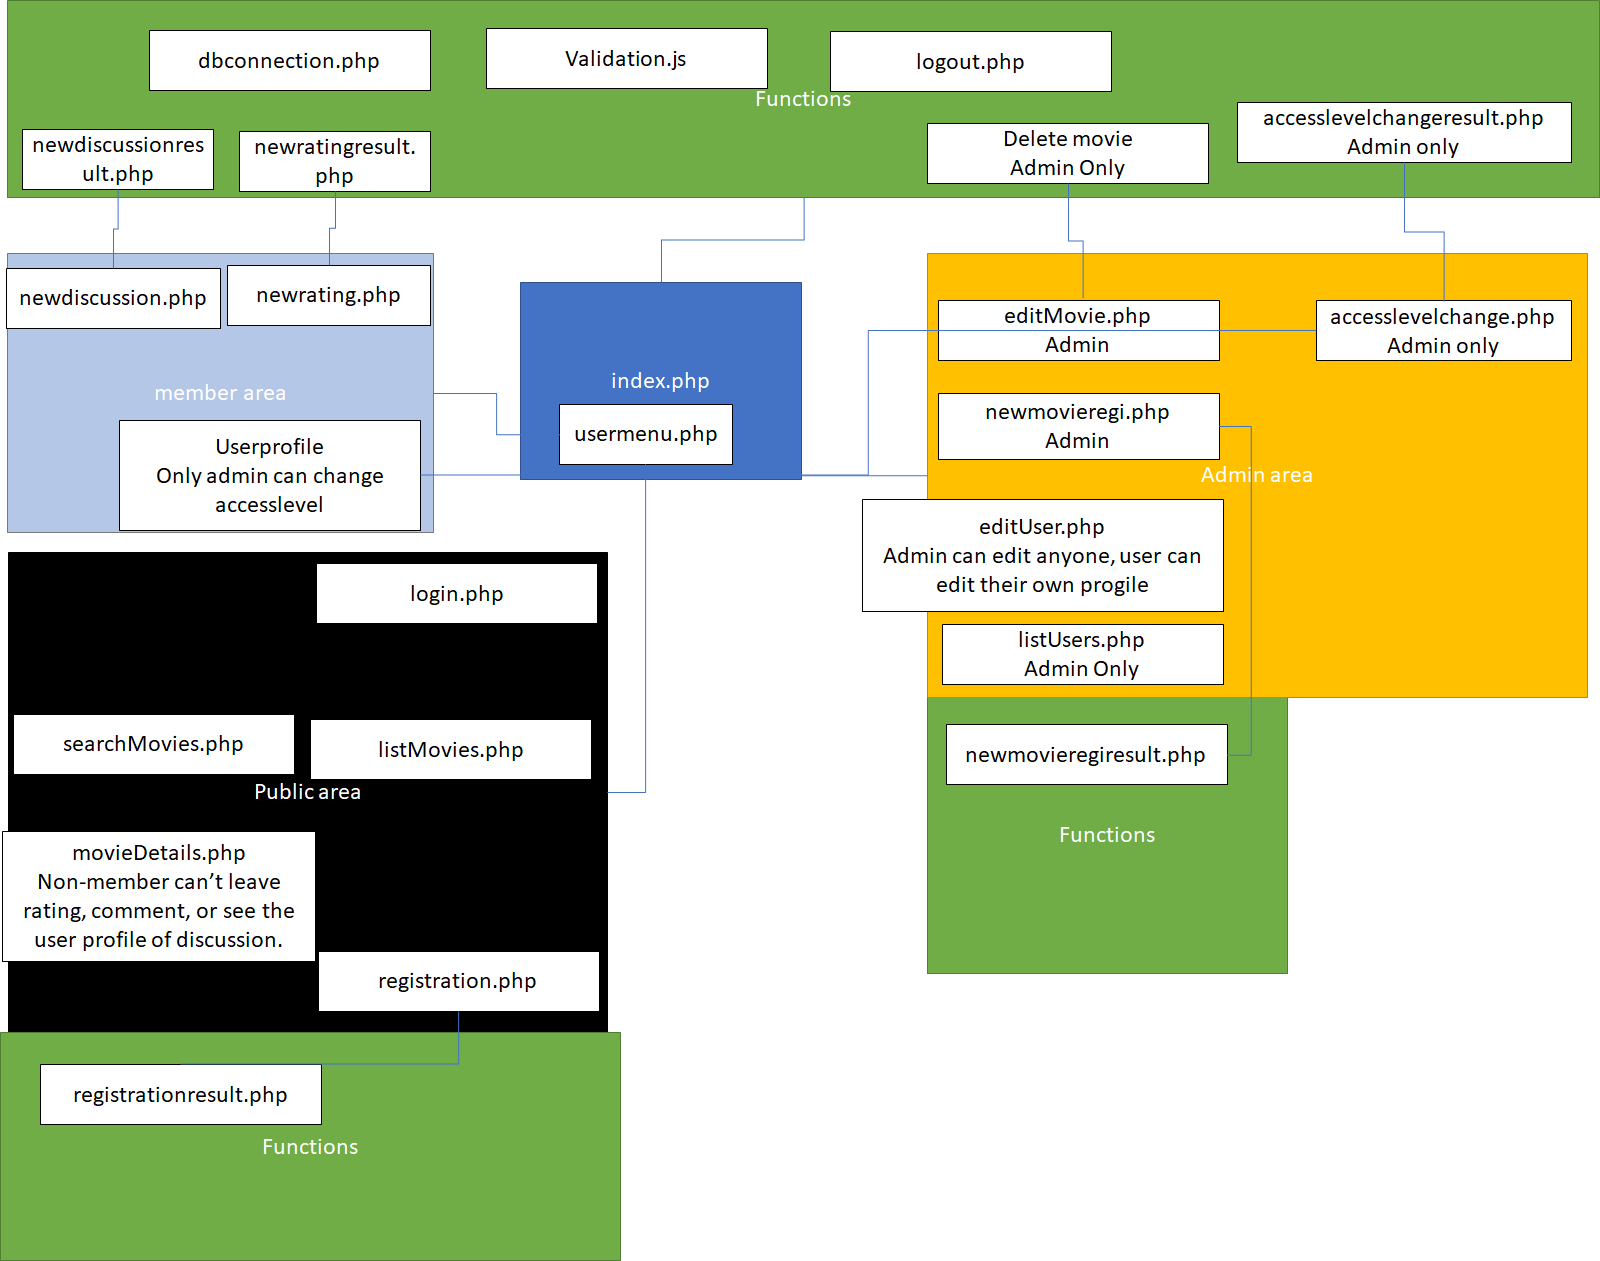
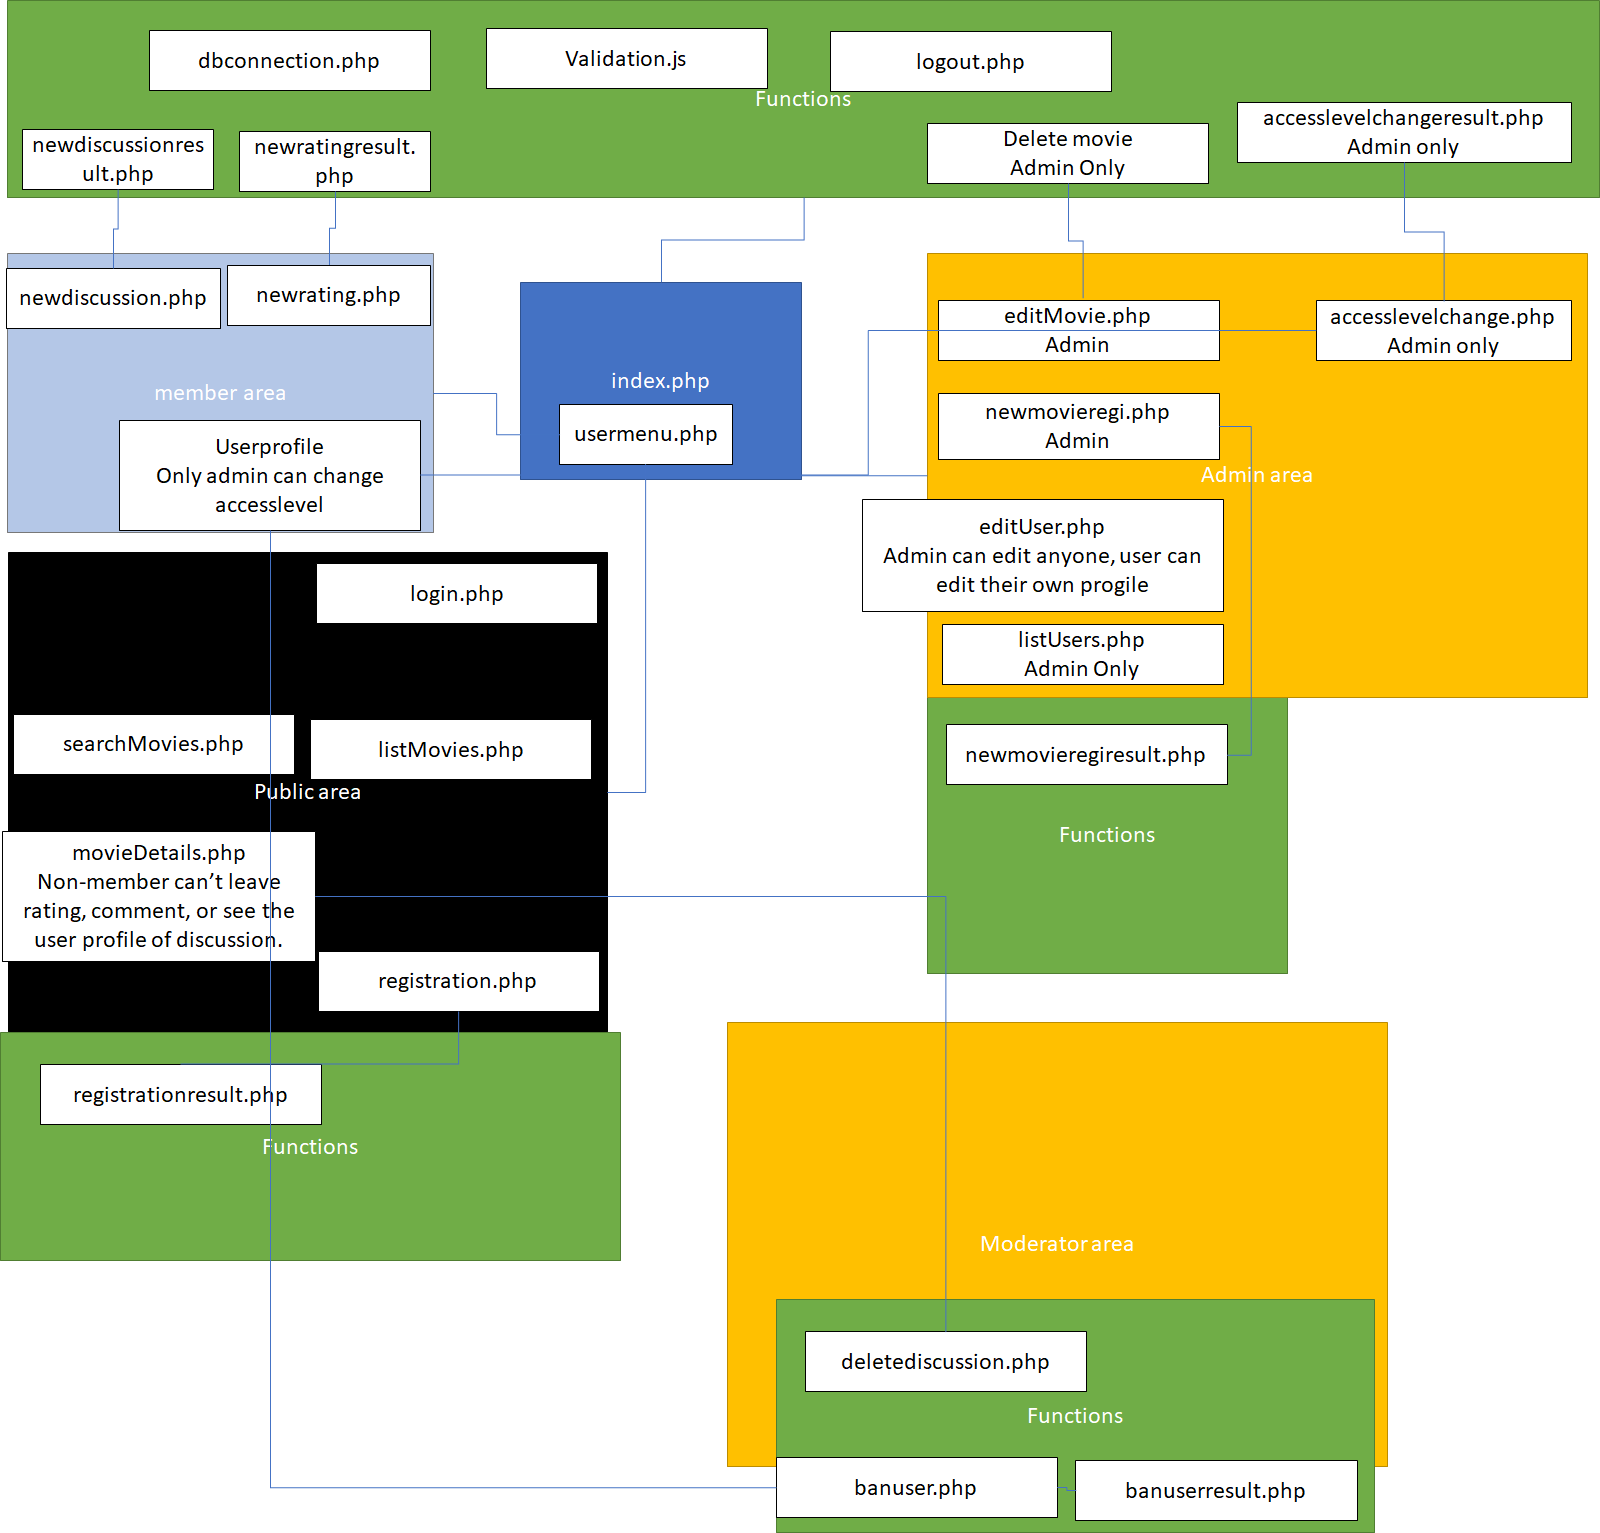
Ban controll for moderator

diff --git a/php/userbanresult.php b/php/userbanresult.php
@@ -1,0 +1,106 @@
+
+<?php require '../func/dbconnection.php';
+//Start or resume a session
+if (session_status() == PHP_SESSION_NONE) {
+  session_start();
+}
+
+if (!( $_SESSION['level'] == 'moderator'))
+{
+header('Location: ../index.php');
+exit;
+}
+?>
+<!DOCTYPE html>
+<html>
+<head>
+</head>
+
+<body>
+<?php
+
+
+if(isset($_GET['unban']))
+{
+    $query = "UPDATE users SET banned_until = '', 
+    ban_reason = '' WHERE username = '".$_SESSION['userdetail']."'";
+
+
+     $result = mysqli_query($connection, $query);
+     header('Location: userDetails.php?username='.$_SESSION['userdetail']);
+
+}
+else
+{
+	//create short variable names from the data received from the form
+	$banhours = $_POST['banhours'];
+	$banreason = $_POST['banreason'];
+  
+  // of our validation code, then there was no error found
+  $error_message = '';
+
+  // first we'll check if any of our required fields are empty all at once
+  if (empty($banhours))
+  {
+    $error_message = 'banhours was blank.';
+  }
+  if (!is_numeric($banhours))
+  {
+    $error_message = 'banhours is not number';
+  }
+
+  if($banhours > 876000)
+  {
+      $error_message = 'Max ban time is 100 years.';
+  }
+
+  if (empty($banreason))
+  {
+    $error_message = 'banreason was blank.';
+  }
+
+
+
+
+
+  // if the error_message variable is not empty (i.e. an error has been found)
+  if ($error_message != '')
+  {
+    // we'll just provide the user with the error message and a back link if there is an error
+    // the exit command tells the server/PHP to stop processing the script at that point
+    echo 'Error: '.$error_message.' <a href="javascript: history.back();">Go Back</a>.';
+    echo '</body></html>';
+    exit;
+  }
+  else
+  {
+    //  if there was no error, show success message
+    // (and them the script continues to the HTML section that displays the results)
+    echo '<p><strong>Form submitted sucessfully!</strong></p>';
+
+    $query = "UPDATE users SET banned_until = DATE_ADD(NOW(), INTERVAL ".$banhours." HOUR), 
+    ban_reason = '".$banreason."' WHERE username = '".$_SESSION['userdetail']."'";
+
+
+  $result = mysqli_query($connection, $query);
+
+  if ($result)
+	{
+    echo '<p>Movie details inserted into database!</p>';
+
+    header('Location: userDetails.php?username='.$_SESSION['userdetail']);
+
+	}
+	else
+	{
+		echo '<p>Error inserting details. Error message:</p>';
+    echo mysqli_error($connection); 
+
+  }
+  }
+}
+?>
+
+
+</body>
+</html>

diff --git a/php/userDetails.php b/php/userDetails.php
@@ -28,7 +28,6 @@ require '../func/dbconnection.php';
 <h2><strong>User Details</strong></h2>
 
 <?php
-  //  delete user if del_id GET data exists
   if (isset($_GET['username']))
   {
 	  
@@ -41,7 +40,14 @@ require '../func/dbconnection.php';
   
   //start the table in which our user list will be shown
   echo '<table><tr>';
-  echo '<th>Username</th><th>Real Name</th><th>Email</th><th>Birth Year</th><th>Country</th><th>Access level</th>';
+  echo '<th>Username</th>
+  <th>Real Name</th>
+  <th>Email</th>
+  <th>Birth Year</th>
+  <th>Country</th>
+  <th>Access level</th>
+  <th>Banned Until</th>
+  <th>Ban Reason</th>';
   echo '</tr>';
   
   //  loop through the result and display them
@@ -69,10 +75,32 @@ require '../func/dbconnection.php';
       {
         echo '<td>'.$row['country'].'</td>';
       }
-      
+      $userdetailaccesslevel = $row['access_level'];
+
       echo '<td>'.$row['access_level'].'</td>';
+
+      if ($row['banned_until'] == '0000-00-00 00:00:00')
+      {
+        echo '<td>Not currently banned</td>';
+      }
+      else
+      {
+        echo '<td>'.$row['banned_until'].'</td>';
+      }
+
+      if ($row['ban_reason'] == '')
+      {
+        echo '<td>Not currently banned</td>';
+      }
+      else
+      {
+        echo '<td>'.$row['ban_reason'].'</td>';
+      }
+
+
   }
   echo '</tr></table>';
+
 
 }
 
@@ -89,6 +117,20 @@ require '../func/dbconnection.php';
     
     
     }
+
+    if (($_SESSION['level'] == 'moderator') && ($userdetailaccesslevel == 'member'))
+    {
+
+      $_SESSION['userdetail'] = $_GET['username'];
+
+      echo '</br>';
+      require 'userban.php';
+    
+    
+    }
+
+    echo $row['access_level'];
+
   ?>
   </div>
   </body>

diff --git a/php/login.php b/php/login.php
@@ -63,12 +63,21 @@ if (!isset($_SESSION['level']))
             //if (password_verify($_POST['tpassword'], $user['password']))
             if ($_POST['tpassword'] == $user['password'])
             {
-                //Set session variables then redirect to menu page
-                $_SESSION['uname'] = $user['username'];
-                $_SESSION['level'] = $user['access_level'];
-                $_SESSION['last_login_timestamp'] = time();
-                header('Location: ../index.php');
-                exit;
+                if(strtotime($user['banned_until']) < time())
+                {
+                    //Set session variables then redirect to menu page
+                    $_SESSION['uname'] = $user['username'];
+                    $_SESSION['level'] = $user['access_level'];
+                    $_SESSION['last_login_timestamp'] = time();
+                    header('Location: ../index.php');
+                    exit;
+                }
+               else
+                {
+                    $messageno = 'You are currently banned until: <br />'.$user['banned_until'].'<br />
+                    Banned reason: '.$user['ban_reason'];
+                }
+                
                 
             }
             else //If password is not valid, show error message
@@ -118,6 +127,7 @@ if (!isset($_SESSION['level']))
 
 
     <a href="registration.php">Rigister</a>
+
     
 
     </div>

diff --git a/php/userban.php b/php/userban.php
@@ -1,0 +1,43 @@
+<?php
+//Start or resume a session
+if (session_status() == PHP_SESSION_NONE) {
+  session_start();
+}
+// db connection
+if (!DBHOST)
+{
+  require '../func/dbconnection.php';
+}
+
+  if (!( $_SESSION['level'] == 'moderator'))
+    {
+    header('Location: ../index.php');
+    exit;
+    }
+
+    ?>
+
+<!DOCTYPE html>
+<html>
+<head>
+	<link rel="stylesheet" type="text/javascript" href="../js/validation.js">
+</head>
+
+<body>
+<h3><strong>Ban user</strong></h3>
+<form name="banuser" method="post" action="userbanresult.php" onsubmit="return ValidateaccesslevelForm();">
+
+<input name="username" type="hidden" value="<?php echo $_SESSION['userdetail'];  ?>" />
+<p>Ban member for: <input type="number" name="banhours" required/> hours.<br/>
+Reason for ban: <input type="text" name="banreason" required/>
+
+<input type="submit" name="submit" value="Submit" /></p>
+
+</form>
+<br/>
+<h3><strong>Unban user</strong></h3>
+<p>Click <a href="userbanresult.php?unban=true">here</a> to remove any existing ban for this user.</p>
+</body>
+</html>
+
+

diff --git a/README.md b/README.md
@@ -16,11 +16,11 @@ Use import function in myphpadmin to demonstrate development environment.
 * Actual time taken: 1 Hour 16 minutes (19/09/2018)
 
 ### Moderator User Level (Mark 9)
-- [ ] Feature: Create new access level that has two distint feature on the top of member privilege (Put comment in discussion, rating, view profile, update their profile). 1. Delete any discussion post (including admin, moderator, and member's post). 2. Ban member in other users **php/userDetails.php** page.
-- [ ] Things to create: Under **users** table, banned_until DATETIME column and a ban_reason VARCHAR column which can be empty.
-- [ ] Things to check: Delete confirm message when deleting discussions. When user login, current time needs to be bigger than banned_until value. Otherwise, a message shows banned_until time and ban_reason.
-- [ ] Expected time to developing: 5 hours.
-* Actual time taken:
+- [X] Feature: Create new access level that has two distint feature on the top of member privilege (Put comment in discussion, rating, view profile, update their profile). 1. Delete any discussion post (including admin, moderator, and member's post). 2. Ban member in other users **php/userDetails.php** page.
+- [X] Things to create: Under **users** table, banned_until DATETIME column and a ban_reason VARCHAR column which can be empty.
+- [X] Things to check: Delete confirm message when deleting discussions. When user login, current time needs to be bigger than banned_until value. Otherwise, a message shows banned_until time and ban_reason.
+- [X] Expected time to developing: 5 hours.
+* Actual time taken: About 2 Hours (26/09/2018)
 
 ### Site Statistics (Mark 6)
 - [ ] Feature: Build a statistics page that shows number of users, average user age, number of movies, most discussed movies, and highest average rating movie.
